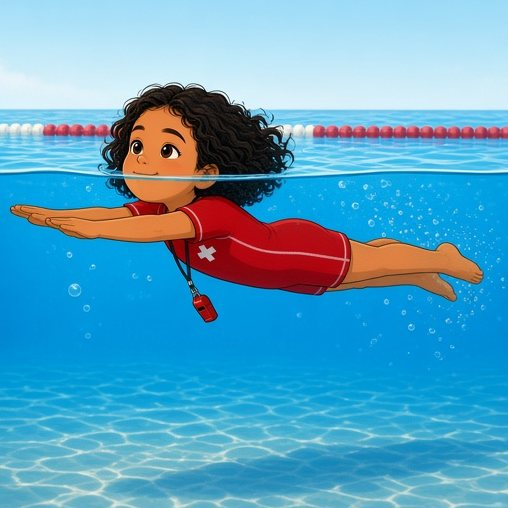
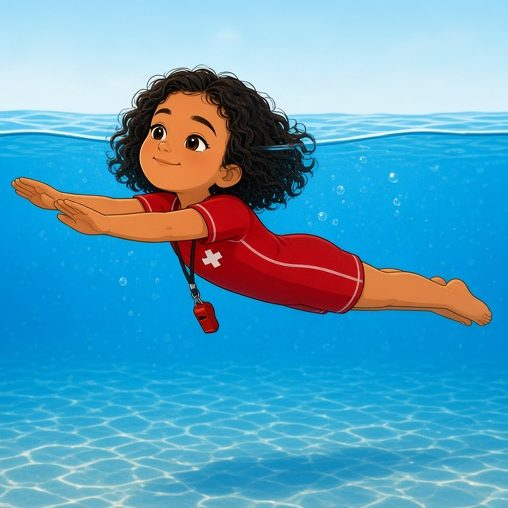
Paint every lesson as the locked Amita, including the kneel.
All 48 moves are short loops of full-body paintings. Balance on your knees puts both knees on the board. Front swim is face-down with one arm recovering, and dolphin swim travels in a body wave.

diff --git a/sw.js b/sw.js
@@ -1,4 +1,4 @@
-var CACHE = "ayalungoo-school-11";
+var CACHE = "ayalungoo-school-12";
 var ASSETS = [
   "/",
   "/index.html",
@@ -18,30 +18,198 @@ var ASSETS = [
   "/swimming/scenes.js",
   "/swimming/rig.js",
   "/swimming/keyframes.js",
-  "/swimming/frames/breath-0.jpg",
-  "/swimming/frames/breath-1.jpg",
-  "/swimming/frames/breath-2.jpg",
-  "/swimming/frames/breath-3.jpg",
-  "/swimming/frames/freestyle-0.jpg",
-  "/swimming/frames/freestyle-1.jpg",
-  "/swimming/frames/freestyle-2.jpg",
-  "/swimming/frames/freestyle-3.jpg",
   "/swimming/frames/backstroke-0.jpg",
   "/swimming/frames/backstroke-1.jpg",
   "/swimming/frames/backstroke-2.jpg",
   "/swimming/frames/backstroke-3.jpg",
-  "/swimming/frames/butterfly-0.jpg",
-  "/swimming/frames/butterfly-1.jpg",
-  "/swimming/frames/butterfly-2.jpg",
-  "/swimming/frames/butterfly-3.jpg",
+  "/swimming/frames/bottom-turn-0.jpg",
+  "/swimming/frames/bottom-turn-1.jpg",
+  "/swimming/frames/bottom-turn-2.jpg",
+  "/swimming/frames/bottom-turn-3.jpg",
   "/swimming/frames/breaststroke-0.jpg",
   "/swimming/frames/breaststroke-1.jpg",
   "/swimming/frames/breaststroke-2.jpg",
   "/swimming/frames/breaststroke-3.jpg",
+  "/swimming/frames/breath-0.jpg",
+  "/swimming/frames/breath-1.jpg",
+  "/swimming/frames/breath-2.jpg",
+  "/swimming/frames/breath-3.jpg",
+  "/swimming/frames/butterfly-0.jpg",
+  "/swimming/frames/butterfly-1.jpg",
+  "/swimming/frames/butterfly-2.jpg",
+  "/swimming/frames/butterfly-3.jpg",
+  "/swimming/frames/catch-wave-0.jpg",
+  "/swimming/frames/catch-wave-1.jpg",
+  "/swimming/frames/catch-wave-2.jpg",
+  "/swimming/frames/catch-wave-3.jpg",
+  "/swimming/frames/climb-out-0.jpg",
+  "/swimming/frames/climb-out-1.jpg",
+  "/swimming/frames/climb-out-2.jpg",
+  "/swimming/frames/climb-out-3.jpg",
+  "/swimming/frames/dolphin-0.jpg",
+  "/swimming/frames/dolphin-1.jpg",
+  "/swimming/frames/dolphin-2.jpg",
+  "/swimming/frames/dolphin-3.jpg",
+  "/swimming/frames/duck-dive-0.jpg",
+  "/swimming/frames/duck-dive-1.jpg",
+  "/swimming/frames/duck-dive-2.jpg",
+  "/swimming/frames/duck-dive-3.jpg",
+  "/swimming/frames/elementary-back-0.jpg",
+  "/swimming/frames/elementary-back-1.jpg",
+  "/swimming/frames/elementary-back-2.jpg",
+  "/swimming/frames/elementary-back-3.jpg",
+  "/swimming/frames/float-back-0.jpg",
+  "/swimming/frames/float-back-1.jpg",
+  "/swimming/frames/float-back-2.jpg",
+  "/swimming/frames/float-back-3.jpg",
+  "/swimming/frames/float-tummy-0.jpg",
+  "/swimming/frames/float-tummy-1.jpg",
+  "/swimming/frames/float-tummy-2.jpg",
+  "/swimming/frames/float-tummy-3.jpg",
+  "/swimming/frames/flutter-0.jpg",
+  "/swimming/frames/flutter-1.jpg",
+  "/swimming/frames/flutter-2.jpg",
+  "/swimming/frames/flutter-3.jpg",
+  "/swimming/frames/freestyle-0.jpg",
+  "/swimming/frames/freestyle-1.jpg",
+  "/swimming/frames/freestyle-2.jpg",
+  "/swimming/frames/freestyle-3.jpg",
+  "/swimming/frames/frog-0.jpg",
+  "/swimming/frames/frog-1.jpg",
+  "/swimming/frames/frog-2.jpg",
+  "/swimming/frames/frog-3.jpg",
+  "/swimming/frames/glide-0.jpg",
+  "/swimming/frames/glide-1.jpg",
+  "/swimming/frames/glide-2.jpg",
+  "/swimming/frames/glide-3.jpg",
+  "/swimming/frames/help-float-0.jpg",
+  "/swimming/frames/help-float-1.jpg",
+  "/swimming/frames/help-float-2.jpg",
+  "/swimming/frames/help-float-3.jpg",
+  "/swimming/frames/huddle-0.jpg",
+  "/swimming/frames/huddle-1.jpg",
+  "/swimming/frames/huddle-2.jpg",
+  "/swimming/frames/huddle-3.jpg",
+  "/swimming/frames/knees-balance-0.jpg",
+  "/swimming/frames/knees-balance-1.jpg",
+  "/swimming/frames/knees-balance-2.jpg",
+  "/swimming/frames/knees-balance-3.jpg",
+  "/swimming/frames/lake-swim-0.jpg",
+  "/swimming/frames/lake-swim-1.jpg",
+  "/swimming/frames/lake-swim-2.jpg",
+  "/swimming/frames/lake-swim-3.jpg",
+  "/swimming/frames/ocean-entry-0.jpg",
+  "/swimming/frames/ocean-entry-1.jpg",
+  "/swimming/frames/ocean-entry-2.jpg",
+  "/swimming/frames/ocean-entry-3.jpg",
+  "/swimming/frames/ocean-exit-0.jpg",
+  "/swimming/frames/ocean-exit-1.jpg",
+  "/swimming/frames/ocean-exit-2.jpg",
+  "/swimming/frames/ocean-exit-3.jpg",
+  "/swimming/frames/ocean-trip-0.jpg",
+  "/swimming/frames/ocean-trip-1.jpg",
+  "/swimming/frames/ocean-trip-2.jpg",
+  "/swimming/frames/ocean-trip-3.jpg",
+  "/swimming/frames/paddle-0.jpg",
+  "/swimming/frames/paddle-1.jpg",
+  "/swimming/frames/paddle-2.jpg",
+  "/swimming/frames/paddle-3.jpg",
   "/swimming/frames/pop-up-0.jpg",
   "/swimming/frames/pop-up-1.jpg",
   "/swimming/frames/pop-up-2.jpg",
   "/swimming/frames/pop-up-3.jpg",
+  "/swimming/frames/reach-rescue-0.jpg",
+  "/swimming/frames/reach-rescue-1.jpg",
+  "/swimming/frames/reach-rescue-2.jpg",
+  "/swimming/frames/reach-rescue-3.jpg",
+  "/swimming/frames/rip-0.jpg",
+  "/swimming/frames/rip-1.jpg",
+  "/swimming/frames/rip-2.jpg",
+  "/swimming/frames/rip-3.jpg",
+  "/swimming/frames/river-cross-0.jpg",
+  "/swimming/frames/river-cross-1.jpg",
+  "/swimming/frames/river-cross-2.jpg",
+  "/swimming/frames/river-cross-3.jpg",
+  "/swimming/frames/river-entry-0.jpg",
+  "/swimming/frames/river-entry-1.jpg",
+  "/swimming/frames/river-entry-2.jpg",
+  "/swimming/frames/river-entry-3.jpg",
+  "/swimming/frames/river-exit-0.jpg",
+  "/swimming/frames/river-exit-1.jpg",
+  "/swimming/frames/river-exit-2.jpg",
+  "/swimming/frames/river-exit-3.jpg",
+  "/swimming/frames/roll-breathe-0.jpg",
+  "/swimming/frames/roll-breathe-1.jpg",
+  "/swimming/frames/roll-breathe-2.jpg",
+  "/swimming/frames/roll-breathe-3.jpg",
+  "/swimming/frames/scull-0.jpg",
+  "/swimming/frames/scull-1.jpg",
+  "/swimming/frames/scull-2.jpg",
+  "/swimming/frames/scull-3.jpg",
+  "/swimming/frames/shallow-dive-0.jpg",
+  "/swimming/frames/shallow-dive-1.jpg",
+  "/swimming/frames/shallow-dive-2.jpg",
+  "/swimming/frames/shallow-dive-3.jpg",
+  "/swimming/frames/sidestroke-0.jpg",
+  "/swimming/frames/sidestroke-1.jpg",
+  "/swimming/frames/sidestroke-2.jpg",
+  "/swimming/frames/sidestroke-3.jpg",
+  "/swimming/frames/sighting-0.jpg",
+  "/swimming/frames/sighting-1.jpg",
+  "/swimming/frames/sighting-2.jpg",
+  "/swimming/frames/sighting-3.jpg",
+  "/swimming/frames/sit-entry-0.jpg",
+  "/swimming/frames/sit-entry-1.jpg",
+  "/swimming/frames/sit-entry-2.jpg",
+  "/swimming/frames/sit-entry-3.jpg",
+  "/swimming/frames/soft-body-0.jpg",
+  "/swimming/frames/soft-body-1.jpg",
+  "/swimming/frames/soft-body-2.jpg",
+  "/swimming/frames/soft-body-3.jpg",
+  "/swimming/frames/stand-entry-0.jpg",
+  "/swimming/frames/stand-entry-1.jpg",
+  "/swimming/frames/stand-entry-2.jpg",
+  "/swimming/frames/stand-entry-3.jpg",
+  "/swimming/frames/streamline-0.jpg",
+  "/swimming/frames/streamline-1.jpg",
+  "/swimming/frames/streamline-2.jpg",
+  "/swimming/frames/streamline-3.jpg",
+  "/swimming/frames/survival-back-0.jpg",
+  "/swimming/frames/survival-back-1.jpg",
+  "/swimming/frames/survival-back-2.jpg",
+  "/swimming/frames/survival-back-3.jpg",
+  "/swimming/frames/takeoff-0.jpg",
+  "/swimming/frames/takeoff-1.jpg",
+  "/swimming/frames/takeoff-2.jpg",
+  "/swimming/frames/takeoff-3.jpg",
+  "/swimming/frames/tread-0.jpg",
+  "/swimming/frames/tread-1.jpg",
+  "/swimming/frames/tread-2.jpg",
+  "/swimming/frames/tread-3.jpg",
+  "/swimming/frames/trim-0.jpg",
+  "/swimming/frames/trim-1.jpg",
+  "/swimming/frames/trim-2.jpg",
+  "/swimming/frames/trim-3.jpg",
+  "/swimming/frames/tummy-balance-0.jpg",
+  "/swimming/frames/tummy-balance-1.jpg",
+  "/swimming/frames/tummy-balance-2.jpg",
+  "/swimming/frames/tummy-balance-3.jpg",
+  "/swimming/frames/turtle-roll-0.jpg",
+  "/swimming/frames/turtle-roll-1.jpg",
+  "/swimming/frames/turtle-roll-2.jpg",
+  "/swimming/frames/turtle-roll-3.jpg",
+  "/swimming/frames/wave-breath-0.jpg",
+  "/swimming/frames/wave-breath-1.jpg",
+  "/swimming/frames/wave-breath-2.jpg",
+  "/swimming/frames/wave-breath-3.jpg",
+  "/swimming/frames/whitewater-0.jpg",
+  "/swimming/frames/whitewater-1.jpg",
+  "/swimming/frames/whitewater-2.jpg",
+  "/swimming/frames/whitewater-3.jpg",
+  "/swimming/frames/wipeout-0.jpg",
+  "/swimming/frames/wipeout-1.jpg",
+  "/swimming/frames/wipeout-2.jpg",
+  "/swimming/frames/wipeout-3.jpg",
   "/swimming/amita-locked.jpg",
   "/swimming/parts/body.png",
   "/swimming/parts/arm-l.png",

diff --git a/swimming/keyframes.js b/swimming/keyframes.js
@@ -1,11 +1,53 @@
 (function (root) {
   var MOVES = {
-    breath: { dur: 5.6, shot: 0 },
-    freestyle: { dur: 3.6, shot: 2 },
-    backstroke: { dur: 3.6, shot: 0 },
-    butterfly: { dur: 3.6, shot: 2 },
-    breaststroke: { dur: 3.6, shot: 1 },
-    "pop-up": { dur: 3.6, shot: 3 }
+    "breath": { dur: 5.6, shot: 0 },
+    "float-back": { dur: 3.6, shot: 0 },
+    "float-tummy": { dur: 3.6, shot: 0 },
+    "glide": { dur: 3.6, shot: 0 },
+    "flutter": { dur: 3.6, shot: 0 },
+    "frog": { dur: 3.6, shot: 0 },
+    "dolphin": { dur: 3.2, shot: 1 },
+    "scull": { dur: 3.6, shot: 0 },
+    "tread": { dur: 3.6, shot: 0 },
+    "streamline": { dur: 3.6, shot: 0 },
+    "roll-breathe": { dur: 3.6, shot: 0 },
+    "soft-body": { dur: 3.6, shot: 0 },
+    "freestyle": { dur: 3.6, shot: 0 },
+    "backstroke": { dur: 3.6, shot: 0 },
+    "breaststroke": { dur: 3.6, shot: 1 },
+    "butterfly": { dur: 3.6, shot: 0 },
+    "sidestroke": { dur: 3.6, shot: 0 },
+    "elementary-back": { dur: 3.6, shot: 0 },
+    "survival-back": { dur: 3.6, shot: 0 },
+    "sit-entry": { dur: 3.6, shot: 0 },
+    "stand-entry": { dur: 3.6, shot: 0 },
+    "shallow-dive": { dur: 3.6, shot: 0 },
+    "climb-out": { dur: 3.6, shot: 0 },
+    "river-entry": { dur: 3.6, shot: 0 },
+    "river-exit": { dur: 3.6, shot: 0 },
+    "ocean-entry": { dur: 3.6, shot: 0 },
+    "ocean-exit": { dur: 3.6, shot: 0 },
+    "sighting": { dur: 3.6, shot: 0 },
+    "wave-breath": { dur: 3.6, shot: 0 },
+    "river-cross": { dur: 3.6, shot: 0 },
+    "lake-swim": { dur: 3.6, shot: 0 },
+    "ocean-trip": { dur: 3.6, shot: 0 },
+    "rip": { dur: 3.6, shot: 0 },
+    "help-float": { dur: 3.6, shot: 0 },
+    "huddle": { dur: 3.6, shot: 0 },
+    "reach-rescue": { dur: 3.6, shot: 0 },
+    "paddle": { dur: 3.6, shot: 0 },
+    "duck-dive": { dur: 3.6, shot: 0 },
+    "turtle-roll": { dur: 3.6, shot: 0 },
+    "pop-up": { dur: 3.6, shot: 3 },
+    "takeoff": { dur: 3.6, shot: 3 },
+    "trim": { dur: 3.6, shot: 0 },
+    "bottom-turn": { dur: 3.6, shot: 0 },
+    "whitewater": { dur: 3.6, shot: 0 },
+    "wipeout": { dur: 3.6, shot: 0 },
+    "catch-wave": { dur: 3.6, shot: 0 },
+    "tummy-balance": { dur: 3.6, shot: 0 },
+    "knees-balance": { dur: 4.2, shot: 0 }
   };
 
   root.mountKeys = function (stage, move) {
